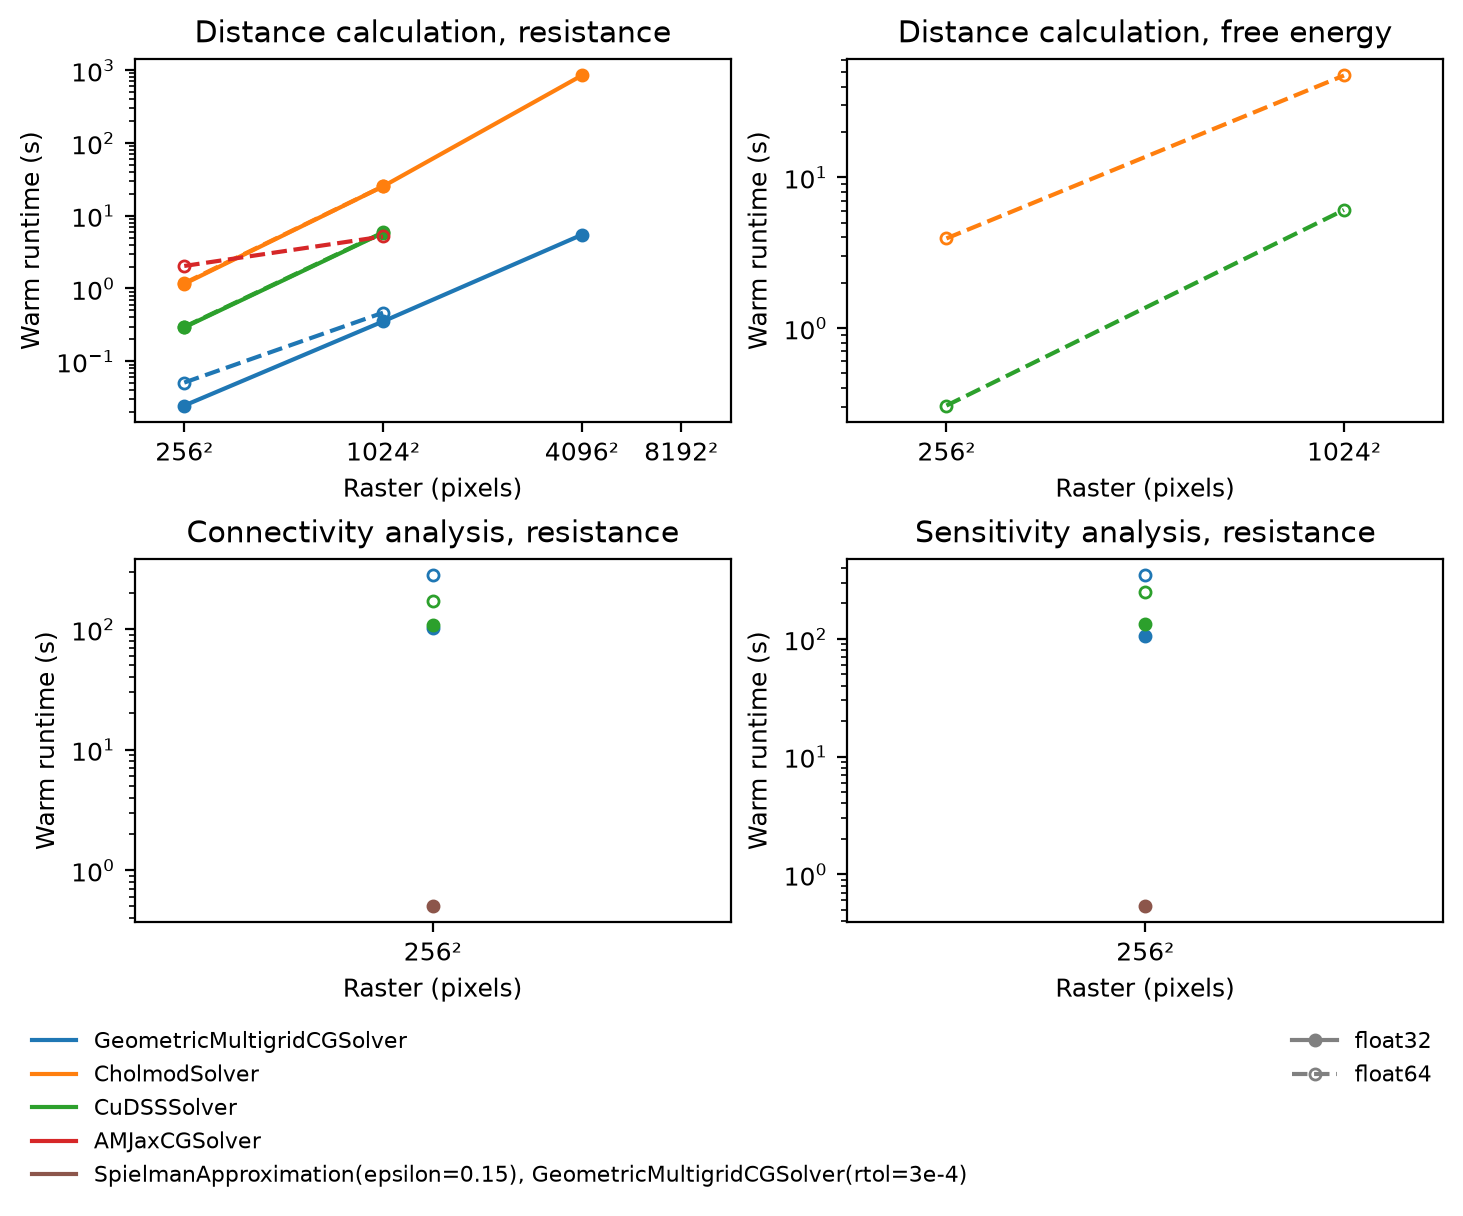
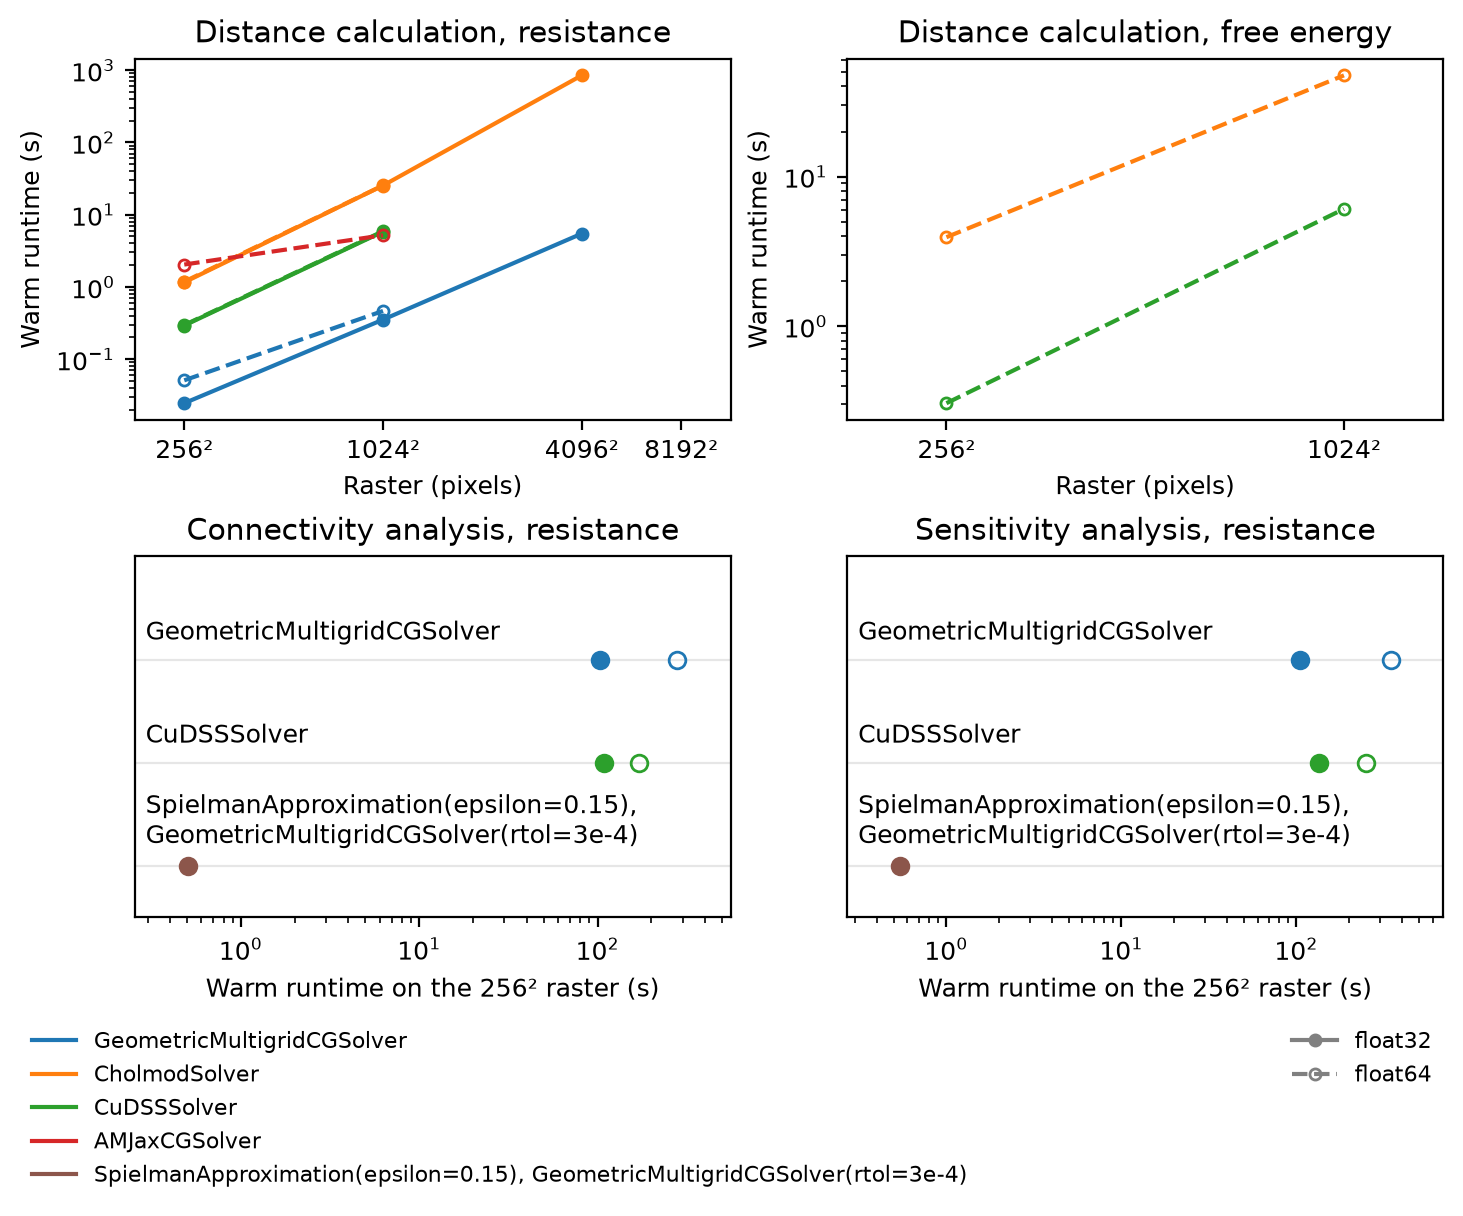
Draw the panels of one raster in the solver figure as dot plots (#85)
The solver view ran the connectivity and sensitivity analyses on the 256²
raster alone, so the bottom panels of solvers.png showed unjoined points
above a single tick. A panel whose records that succeed are all on one
raster now has a row per solver, labelled above it in the order of the
legend, with a dot per dtype at its warm runtime on a log axis that names
the raster. Panels with several rasters keep their lines. The panels of
solver-errors.png place each record by its error and warm runtime, so they
read on one raster and stay as they were.

diff --git a/benchmark/report.py b/benchmark/report.py
@@ -270,6 +270,32 @@ def raster_axis(axes, records):
     axes.set_xlim(min(cells) / 2, max(cells) * 2)
 
 
+def runtime_axis(axes, labels, records):
+    """Put a panel of one raster on a log runtime axis, with a row per label.
+
+    The first label is the top row. Each label stands above its row, inside the
+    panel, and breaks after each comma, and the runtime axis names the raster
+    of `records`.
+    """
+    axes.set_xscale("log")
+    runtimes = [record["median_s"] for record in records]
+    axes.set_xlim(min(runtimes) / 2, max(runtimes) * 2)
+    raster = case_label(records[0]["case"])
+    axes.set_xlabel(f"Warm runtime on the {raster} raster (s)")
+    axes.set_yticks([])
+    axes.set_ylim(len(labels) - 0.5, -1)
+    for row, label in enumerate(labels):
+        axes.axhline(row, color="0.9", linewidth=0.8, zorder=0)
+        axes.annotate(
+            label.replace(", ", ",\n"),
+            (0, row),
+            xycoords=axes.get_yaxis_transform(),
+            xytext=(4, 5),
+            textcoords="offset points",
+            va="bottom",
+        )
+
+
 def save(figure, colors, styles, path, count):
     """Save a figure with the legends of its colours and styles.
 
@@ -307,8 +333,11 @@ def plot_runtimes(records, panel, line, path):
     """Plot the warm runtime of each line against the raster.
 
     At each raster, a line takes the fastest of its records that succeed, and
-    joins the synthetic rasters; Maryland is a star. A figure of one panel has
-    no title: the section of the page that shows it names its question.
+    joins the synthetic rasters; Maryland is a star. A panel whose records that
+    succeed are all on one raster has a row per line instead, in the order of
+    the legend, with a dot at the warm runtime of the line, and its runtime
+    axis names the raster. A figure of one panel has no title: the section of
+    the page that shows it names its question.
 
     **Arguments:**
 
@@ -326,11 +355,19 @@ def plot_runtimes(records, panel, line, path):
     tiers = {tuple(r[f] for f in line[:-1]): r["tier"] for r in records}
     figure, grid = panels_figure(len(panels))
     for axes, (values, group) in zip(grid, panels):
-        for of_line, records_of_line in group_by(group, line):
-            color = f"C{keys.index(tuple(of_line.values())[:-1]) % 10}"
-            style = style_of(of_line[line[-1]], color)
-            ok = succeeded(records_of_line)
-            best = [fastest(ok, case) for case in dict.fromkeys(r["case"] for r in ok)]
+        ok = succeeded(group)
+        one_raster = len({record["case"] for record in ok}) == 1
+        on_panel = {tuple(r[f] for f in line[:-1]) for r in ok}
+        rows = [key for key in keys if key in on_panel]
+        for of_line, records_of_line in group_by(ok, line):
+            key = tuple(of_line.values())[:-1]
+            style = style_of(of_line[line[-1]], f"C{keys.index(key) % 10}")
+            cases = dict.fromkeys(record["case"] for record in records_of_line)
+            best = [fastest(records_of_line, case) for case in cases]
+            if one_raster:
+                dot = style | {"linestyle": ""}
+                axes.plot(best[0]["median_s"], rows.index(key), "o", ms=6, **dot)
+                continue
             synthetic = [record for record in best if side(record["case"])]
             axes.plot(
                 [record["cells"] for record in synthetic],
@@ -343,8 +380,11 @@ def plot_runtimes(records, panel, line, path):
                 if not side(record["case"]):
                     star = style | {"linestyle": ""}
                     axes.plot(record["cells"], record["median_s"], "*", ms=9, **star)
-        log_axes(axes, "Raster (pixels)")
-        raster_axis(axes, group)
+        if one_raster:
+            runtime_axis(axes, [", ".join(map(name, key)) for key in rows], ok)
+        else:
+            log_axes(axes, "Raster (pixels)")
+            raster_axis(axes, group)
         if len(panels) > 1:
             axes.set_title(panel_title(values))
     drawn = {tuple(r[f] for f in line[:-1]) for r in succeeded(records)}

diff --git a/benchmark/tests/test_report.py b/benchmark/tests/test_report.py
@@ -4,6 +4,8 @@ import shutil
 from pathlib import Path
 
 import pytest
+from report import plot_runtimes, solver_view
+from run import read_records
 
 
 FIXTURE = Path(__file__).parent / "fixture"
@@ -122,6 +124,23 @@ def test_figures_are_shown_at_one_scale_and_the_solver_figures_widest(report):
     widths = dict(re.findall(r'<img src="([\w-]+)\.png" alt="[^"]+" width="(\d+)">', text))
     assert all(int(width) <= 760 for width in widths.values())
     assert int(widths["solvers"]) > int(widths["distance"])
+
+
+def test_a_panel_on_one_raster_has_a_row_per_solver_and_names_the_raster(monkeypatch):
+    figures = []
+    monkeypatch.setattr("report.save", lambda figure, *rest: figures.append(figure))
+    records = solver_view(read_records(FIXTURE / "records.csv"))
+
+    plot_runtimes(records, ("question", "distance"), ("solver", "dtype"), None)
+
+    panels = {axes.get_title(): axes for axes in figures[0].axes if axes.get_visible()}
+    one_raster = panels["Sensitivity analysis, resistance"]
+    assert one_raster.get_xlabel() == "Warm runtime on the 256² raster (s)"
+    labels = [text.get_text() for text in one_raster.texts]
+    assert labels == ["GeometricMultigridCGSolver"]
+    several = panels["Connectivity analysis, resistance"]
+    assert several.get_xlabel() == "Raster (pixels)"
+    assert not several.texts
 
 
 def test_each_table_of_every_setting_is_collapsed_and_states_its_quantities(report):
